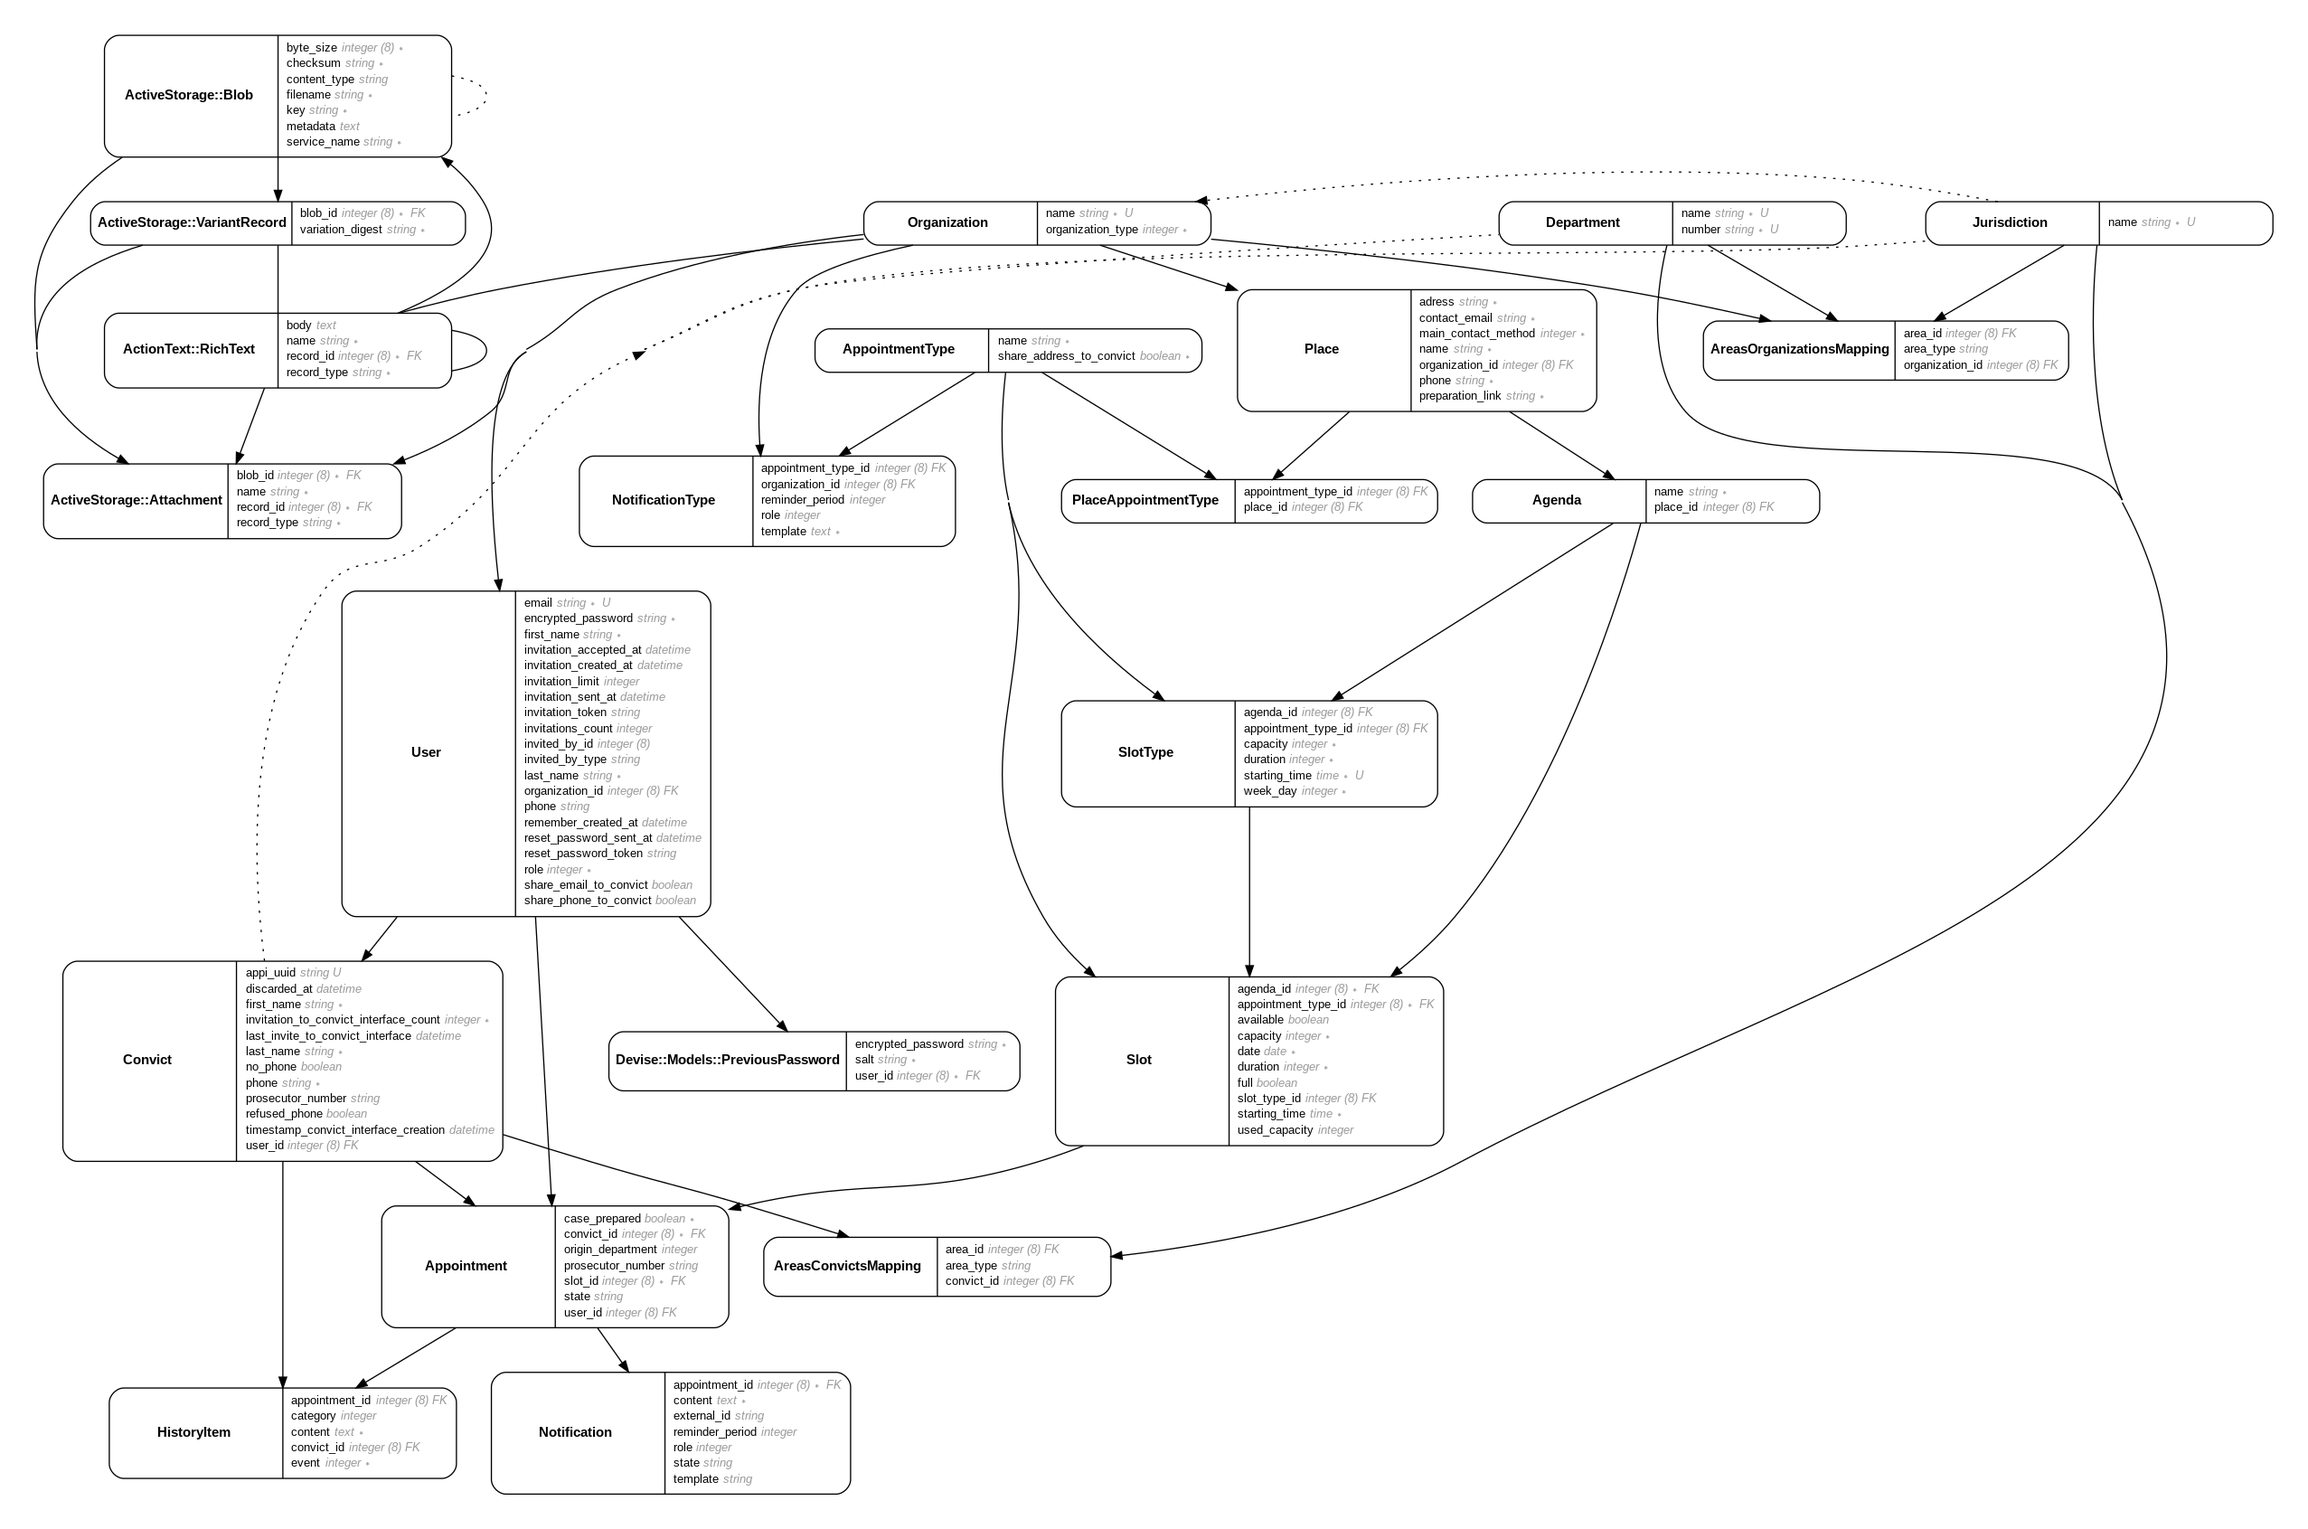
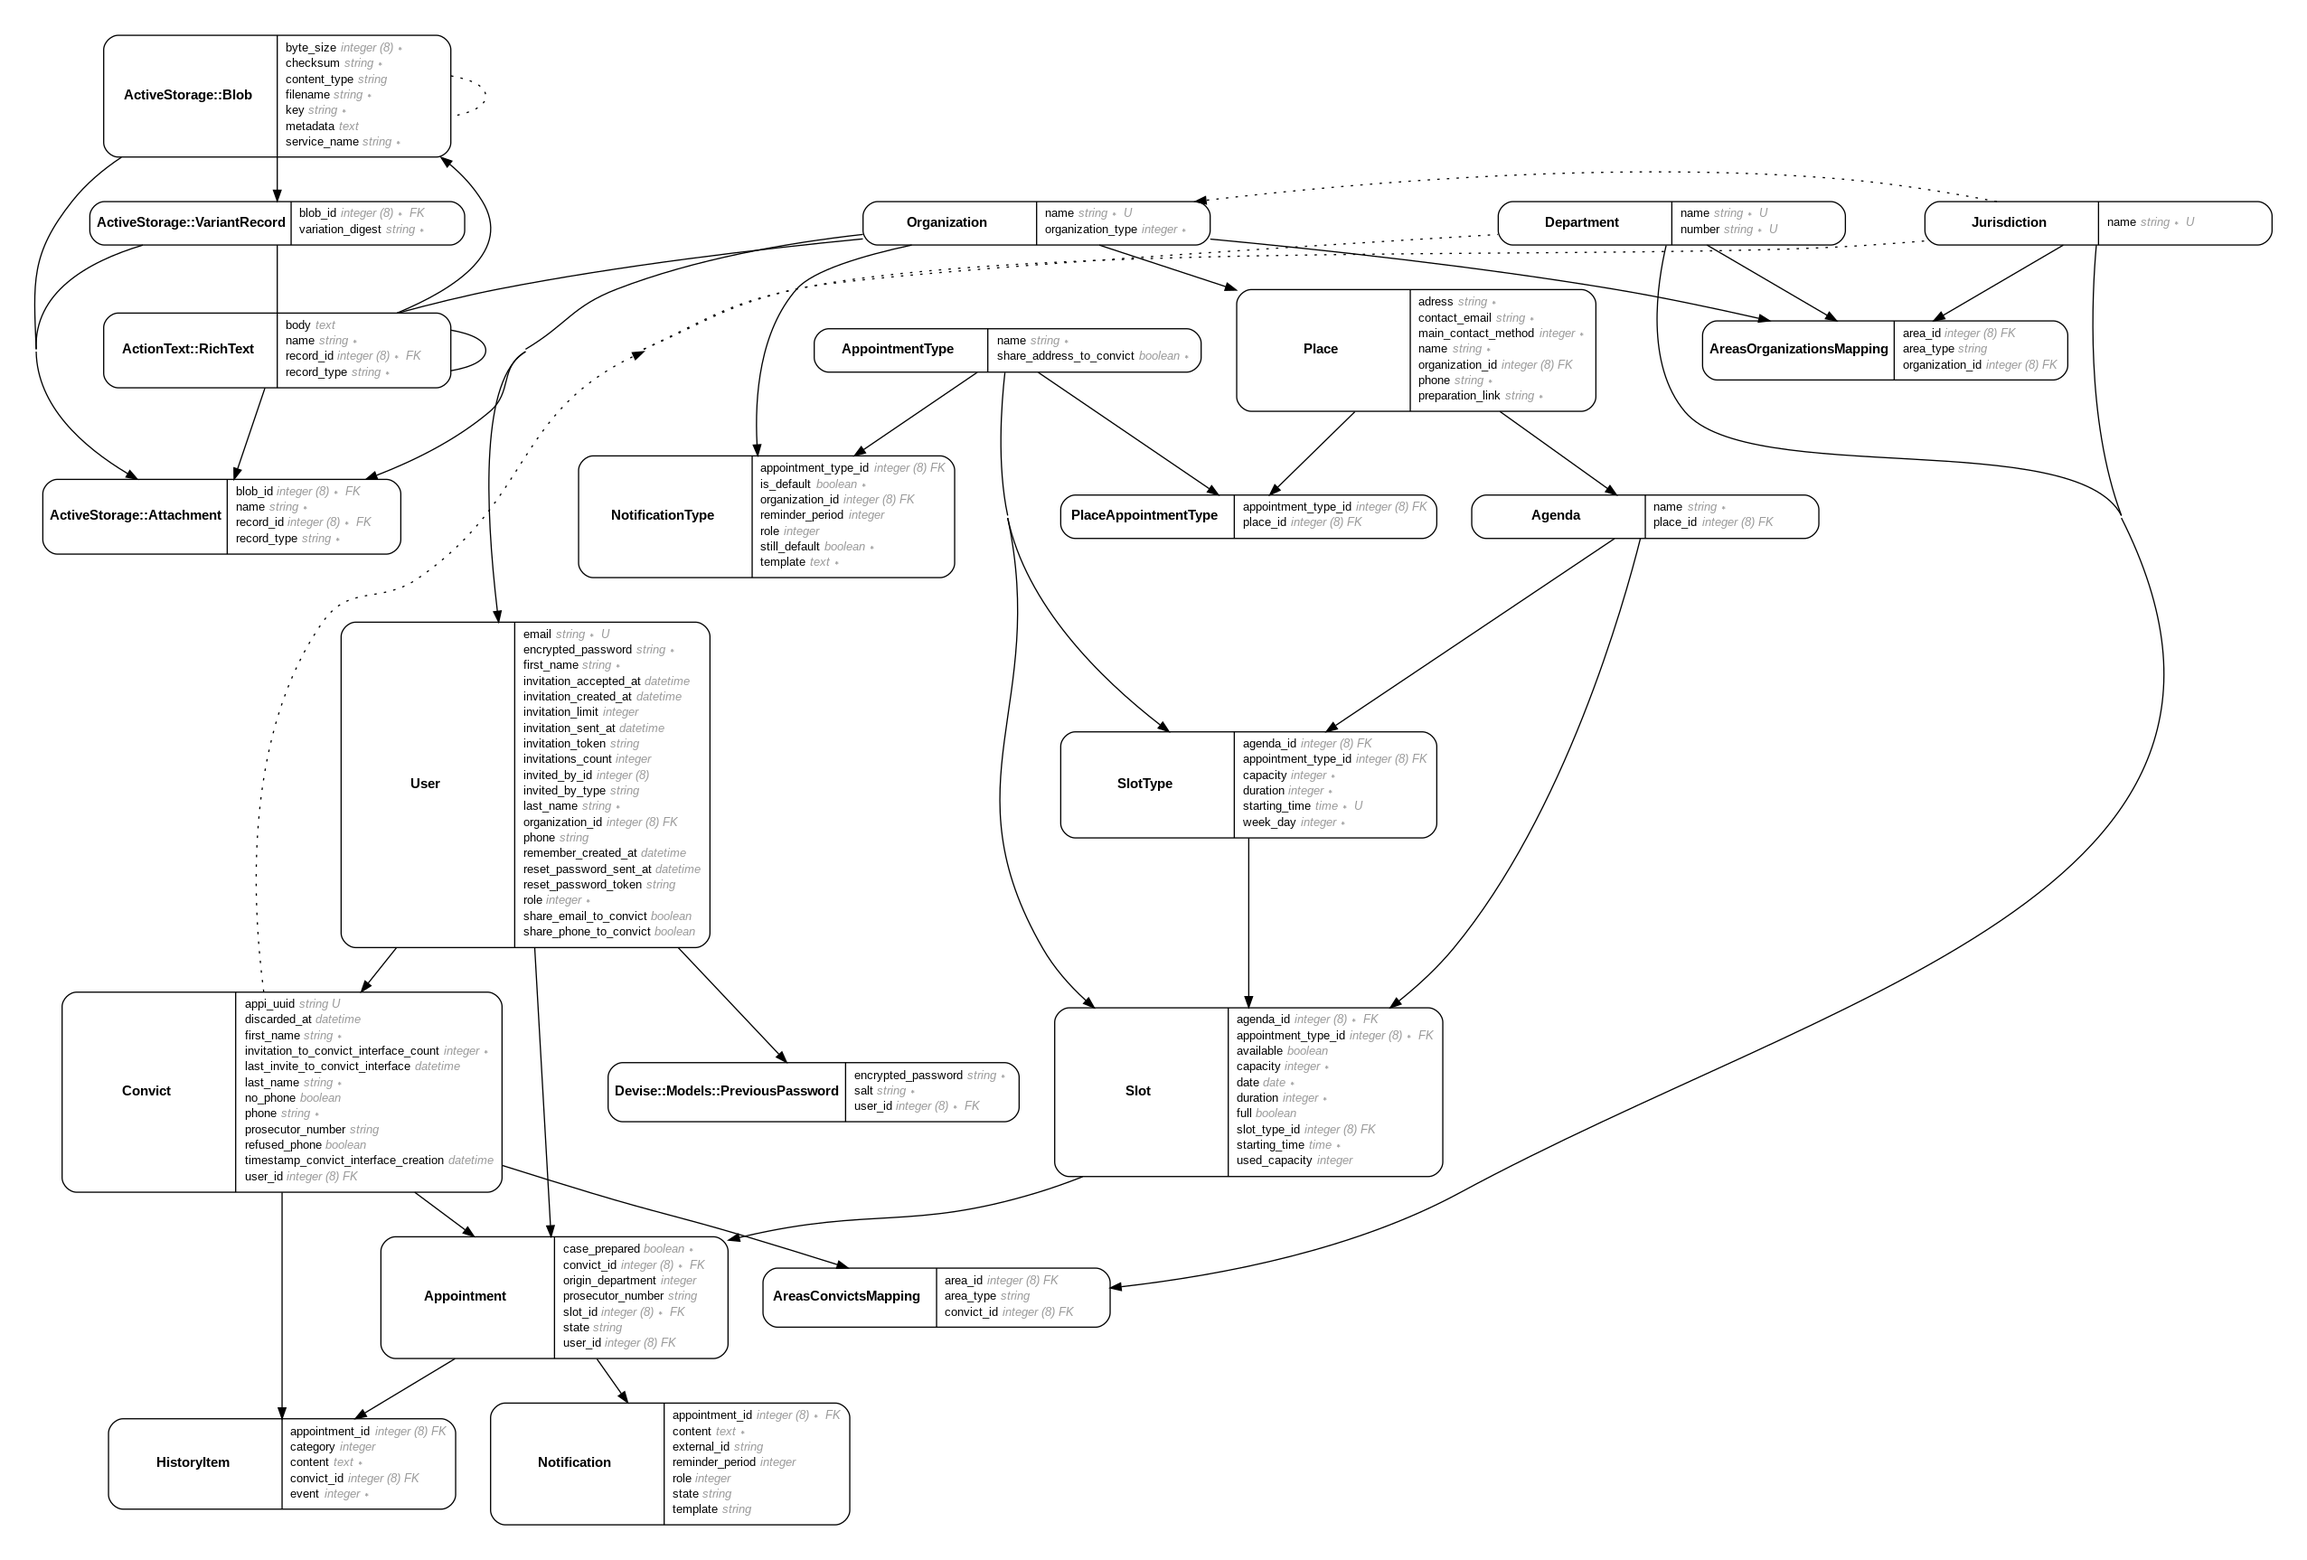
add columns to notification_types table for default behaviour

diff --git a/spec/features/appointment_types_spec.rb b/spec/features/appointment_types_spec.rb
@@ -24,18 +24,22 @@ RSpec.feature 'AppointmentType', type: :feature do
       create(:notification_type, appointment_type: appointment_type,
                                  role: :summon, template: 'Default summon')
     end
+
     let!(:notif_type2) do
       create(:notification_type, appointment_type: appointment_type,
                                  role: :reminder, template: 'Default reminder')
     end
+
     let!(:notif_type3) do
       create(:notification_type, appointment_type: appointment_type,
                                  role: :cancelation, template: 'Default cancelation')
     end
+
     let!(:notif_type4) do
       create(:notification_type, appointment_type: appointment_type,
                                  role: :no_show, template: 'Default no_show')
     end
+
     let!(:notif_type5) do
       create(:notification_type, appointment_type: appointment_type,
                                  role: :reschedule, template: 'Default reschedule')
@@ -104,6 +108,46 @@ RSpec.feature 'AppointmentType', type: :feature do
       click_button 'Enregistrer'
 
       expect(local_notif1.reload.template).to eq('updated local summon')
+    end
+
+    xit 'updates local notification_types that stayed default when updating default notification_types', js: true do
+      @user.organization.setup_notification_types
+
+      visit edit_appointment_type_path(id: appointment_type.id, orga: @user.organization.id)
+
+      summon_container = first('.summon-container')
+
+      expect(summon_container).to have_content('Défaut')
+
+      within summon_container do
+        fill_in 'Modèle', with: 'updated local summon'
+      end
+
+      click_button 'Enregistrer'
+
+      visit edit_appointment_type_path(id: appointment_type.id, orga: @user.organization.id)
+
+      expect(first('.summon-container')).to have_content('Modifié')
+      expect(first('.summon-container')).to have_content('updated local summon')
+      expect(first('.reminder-container')).to have_content('Défaut')
+      expect(first('.reminder-container')).to have_content('Default reminder')
+
+      visit edit_appointment_type_path(id: appointment_type.id)
+
+      within first('.summon-container') do
+        fill_in 'Modèle', with: 'updated default summon'
+      end
+
+      within first('.reminder-container') do
+        fill_in 'Modèle', with: 'updated default reminder'
+      end
+
+      click_button 'Enregistrer'
+
+      visit edit_appointment_type_path(id: appointment_type.id, orga: @user.organization.id)
+
+      expect(first('.summon-container')).to have_content('updated local summon')
+      expect(first('.reminder-container')).to have_content('updated default reminder')
     end
 
     it 'does not allow to update notification types with incorrect template' do

diff --git a/db/schema.rb b/db/schema.rb
@@ -10,7 +10,7 @@
 #
 # It's strongly recommended that you check this file into your version control system.
 
-ActiveRecord::Schema.define(version: 2022_07_26_080727) do
+ActiveRecord::Schema.define(version: 2022_07_29_130717) do
 
   # These are extensions that must be enabled in order to support this database
   enable_extension "plpgsql"
@@ -160,6 +160,8 @@ ActiveRecord::Schema.define(version: 2022_07_26_080727) do
     t.datetime "updated_at", precision: 6, null: false
     t.integer "reminder_period", default: 0
     t.bigint "organization_id"
+    t.boolean "is_default", default: false, null: false
+    t.boolean "still_default", default: true, null: false
     t.index ["appointment_type_id"], name: "index_notification_types_on_appointment_type_id"
     t.index ["organization_id"], name: "index_notification_types_on_organization_id"
   end

diff --git a/db/migrate/20220729130717_add_is_default_to_notification_type.rb b/db/migrate/20220729130717_add_is_default_to_notification_type.rb
@@ -1,0 +1,6 @@
+class AddIsDefaultToNotificationType < ActiveRecord::Migration[6.1]
+  def change
+    add_column :notification_types, :is_default, :boolean, default: false, null: false
+    add_column :notification_types, :still_default, :boolean, default: true, null: false
+  end
+end
